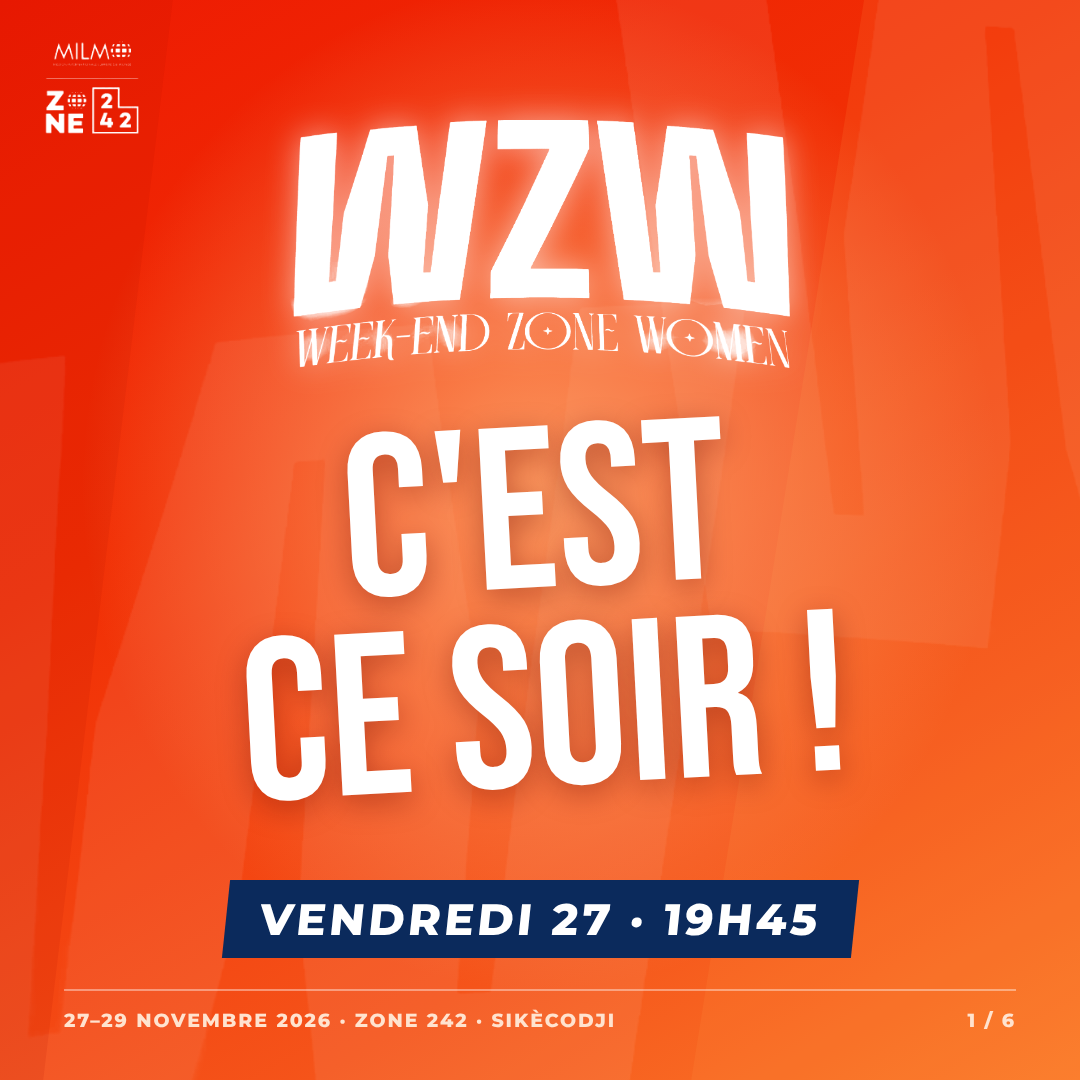
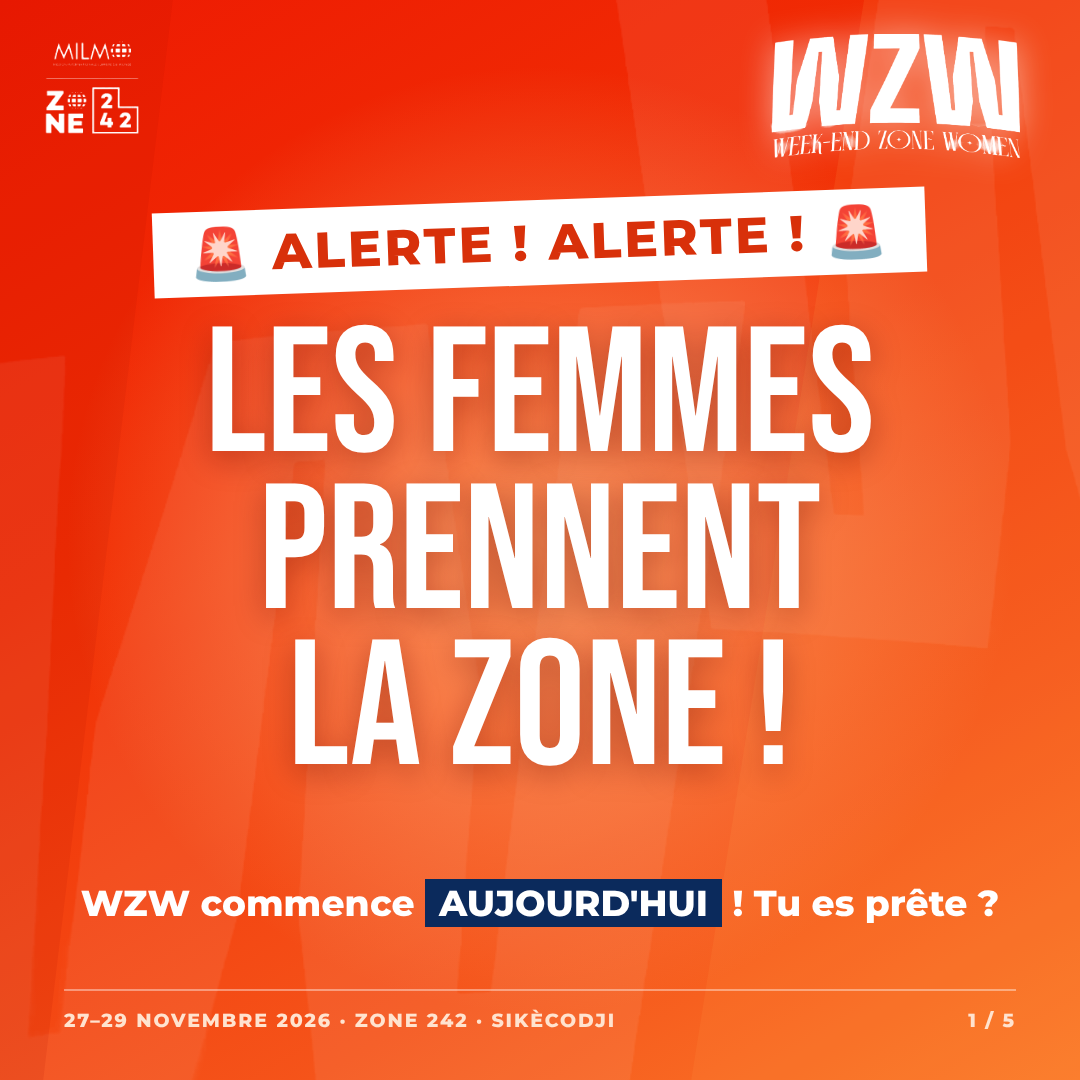
Carrousel « C'est ce soir ! » : textes de l'équipe (5 diapos)
Claude-Session: https://claude.ai/code/session_01MwjzxB6vNBUzfK55D3M67f

Changed region(s): [[0.1222, 0.0, 0.9778, 0.7639], [0.0611, 0.7944, 0.9472, 0.8861]]

diff --git a/zone242-com-session/livrables/scripts-sources/carrousel_aujourdhui.py b/zone242-com-session/livrables/scripts-sources/carrousel_aujourdhui.py
@@ -8,13 +8,13 @@ for src, n in [("teaser-wzw-reels/assets/montserrat-latin-600-normal.woff2", "m6
                ("un-mot-une-session-reels/assets/lockup.png", "lockup.png"), ("presentation-dr-hestia/assets/logos_alpha.png", "logos.png"), ("teaser-wzw-reels/assets/W1.png", "w1.png"), ("teaser-wzw-reels/assets/W2.png", "w2.png")]:
     shutil.copy(R / src, T / n)
 shutil.copy(HERE / "mary_net.png", T / "mary.png")
-N = 6
+N = 5
 CSS = """@font-face{font-family:B;src:url(bb.woff2)}@font-face{font-family:M;font-weight:600;src:url(m6.woff2)}@font-face{font-family:M;font-weight:800;src:url(m8.woff2)}
 *{margin:0;padding:0;box-sizing:border-box}body{width:1080px;height:1080px;position:relative;overflow:hidden;font-family:B;color:#fff;background:linear-gradient(150deg,#ee1a02 0%,#f12e04 36%,#f5541a 74%,#fb7a2a 100%)}
 .a{position:absolute}.lock{filter:drop-shadow(0 0 16px rgba(255,255,255,.55))}
-.k{font-family:M;font-weight:800;letter-spacing:.2em;color:#ffe3cf}.tx{font-family:M;font-weight:600;line-height:1.38}.tx b{font-weight:800}
-.tag{background:#0b2a5c;color:#fff;font-family:M;font-weight:800;letter-spacing:.08em;display:inline-block}
-.card{background:#fff;color:#10143a;border-radius:22px;box-shadow:0 14px 30px rgba(90,0,0,.3)}"""
+.k{font-family:M;font-weight:800;letter-spacing:.12em;color:#ffe3cf}.tx{font-family:M;font-weight:800;line-height:1.3}
+.tag{background:#0b2a5c;color:#fff;font-family:M;font-weight:800;letter-spacing:.06em;display:inline-block}
+.card{background:#fff;border-radius:22px;box-shadow:0 14px 30px rgba(90,0,0,.3)}"""
 def base(n, inner, cover=False):
     g = ('<img class="a" src="w1.png" style="left:-140px;top:300px;height:900px;opacity:.07;filter:brightness(2)"><img class="a" src="w2.png" style="left:600px;top:-120px;height:820px;opacity:.07;filter:brightness(2)">'
          '<div class="a" style="inset:0;background:#b80f00;opacity:.12;clip-path:polygon(0 0,16% 0,4% 100%,0 100%)"></div><div class="a" style="inset:0;background:#ff9a4a;opacity:.14;clip-path:polygon(80% 0,100% 0,100% 100%,64% 100%)"></div>')
@@ -23,37 +23,31 @@ def base(n, inner, cover=False):
     foot = f'<div class="a" style="left:64px;right:64px;bottom:48px;border-top:2px solid rgba(255,255,255,.4);padding-top:18px;display:flex;justify-content:space-between;font-family:M;font-weight:800;font-size:19px;letter-spacing:.1em;color:#ffe3cf"><span>27–29 NOVEMBRE 2026 · ZONE 242 · SIKÈCODJI</span><span>{n} / {N}</span></div>'
     return g + top + inner + foot
 S = []
-S.append(base(1, '''<div class="a" style="inset:0;background:radial-gradient(ellipse at 50% 45%,rgba(255,180,120,.75),rgba(255,180,120,0) 60%)"></div>
-<img class="a" src="logos.png" style="left:40px;top:36px;width:104px">
-<img class="a lock" src="lockup.png" style="left:290px;top:120px;width:500px">
-<div class="a" style="left:0;width:1080px;top:420px;text-align:center;font-size:230px;line-height:.86;text-shadow:0 8px 30px rgba(110,10,0,.4);transform:rotate(-3deg)">C'EST<br>CE SOIR !</div>
-<div class="a" style="left:0;width:1080px;top:880px;text-align:center"><span class="tag" style="font-size:44px;padding:12px 34px;transform:skewX(-6deg)">VENDREDI 27 · 19H45</span></div>''', True))
-S.append(base(2, '''<div class="a k" style="left:64px;top:210px;font-size:24px">TU FAIS QUOI CE SOIR ?</div>
-<div class="a" style="left:64px;top:252px;font-size:124px;line-height:.9;width:560px;text-shadow:0 8px 30px rgba(110,10,0,.35)">ON OUVRE LE<br>WEEK-END<br>ZONE<br>WOMEN</div>
-<div class="a" style="left:560px;top:150px;width:520px;height:900px;overflow:hidden;-webkit-mask-image:linear-gradient(180deg,#000 80%,transparent 100%);mask-image:linear-gradient(180deg,#000 80%,transparent 100%)"><img src="mary.png" style="position:absolute;left:-20px;top:20px;height:880px;filter:drop-shadow(0 18px 34px rgba(70,0,0,.4))"></div>
-<div class="a" style="left:64px;top:760px"><span class="tag" style="font-size:22px;padding:7px 18px">PROPHÉTESSE</span></div><div class="a" style="left:64px;top:798px"><span class="tag" style="font-size:30px;padding:9px 24px">MARY FAVOUR TONGSI</span></div>
-<div class="a k" style="left:64px;top:862px;font-size:19px;letter-spacing:.22em">INVITÉE D'HONNEUR</div>'''))
-items = ["Accueil par l'équipe des femmes", "Louange et adoration", "Le message de la Prophétesse Mary", "Un temps de prière et de ministère"]
-h = '<div class="a k" style="left:64px;top:200px;font-size:24px">AU PROGRAMME CE SOIR</div><div class="a" style="left:64px;top:240px;font-size:104px;line-height:.9">4 BONNES RAISONS<br>DE VENIR</div>'
-for i, t in enumerate(items):
-    y = 500 + i * 118
-    h += f'<div class="a card" style="left:64px;top:{y}px;width:952px;height:98px"></div><div class="a" style="left:64px;top:{y}px;width:98px;height:98px;background:#0260a6;border-radius:22px 0 0 22px;display:flex;align-items:center;justify-content:center;font-size:64px;padding-top:6px">{i + 1}</div>'
-    h += f'<div class="a tx" style="left:190px;top:{y + 28}px;width:800px;font-size:34px;font-weight:800;color:#10143a;line-height:1.1">{t}</div>'
-S.append(base(3, h))
-S.append(base(4, '''<div class="a k" style="left:64px;top:200px;font-size:24px">ET DEMAIN ?</div>
-<div class="a" style="left:64px;top:240px;font-size:150px;line-height:.88;text-shadow:0 8px 30px rgba(110,10,0,.35)">SAMEDI,<br>ON CONTINUE !</div>
-<div class="a" style="left:64px;top:560px;width:952px;height:300px;background:#0260a6;clip-path:polygon(0 0,100% 4%,100% 100%,0 96%)"></div>
-<div class="a" style="left:100px;top:584px;font-size:64px;line-height:1;letter-spacing:.03em">WOMEN'S EXPERIENCE DAY · 9H00</div>
-<div class="a tx" style="left:100px;top:672px;width:880px;font-size:30px;color:#fff">Relaxation · 4 panels · « Belle et en bonne santé » · Zone Détente (salon de thé, massages, coin photo) · grande table ronde</div>'''))
-S.append(base(5, '''<div class="a k" style="left:64px;top:200px;font-size:24px">ET DIMANCHE ?</div>
-<div class="a" style="left:64px;top:240px;font-size:150px;line-height:.88;text-shadow:0 8px 30px rgba(110,10,0,.35)">ON FINIT<br>EN BEAUTÉ</div>
-<div class="a card" style="left:64px;top:560px;width:460px;height:250px"></div><div class="a" style="left:100px;top:584px;font-size:100px;line-height:1;color:#ee1a02">8H45</div><div class="a tx" style="left:100px;top:700px;width:400px;font-size:30px;font-weight:800;color:#10143a;line-height:1.15">Culte de clôture avec la Prophétesse Mary</div>
-<div class="a card" style="left:556px;top:560px;width:460px;height:250px"></div><div class="a" style="left:592px;top:584px;font-size:100px;line-height:1;color:#ee1a02">11H30</div><div class="a tx" style="left:592px;top:700px;width:400px;font-size:30px;font-weight:800;color:#10143a;line-height:1.15">L'Agapè des Femmes : brunch, témoignages, photo de groupe</div>'''))
-S.append(base(6, '''<div class="a" style="inset:0;background:radial-gradient(ellipse at 50% 40%,rgba(255,180,120,.6),rgba(255,180,120,0) 60%)"></div>
-<div class="a" style="left:64px;top:210px;font-size:176px;line-height:.88;text-shadow:0 8px 30px rgba(110,10,0,.35)">VIENS<br>AVEC UNE<br>AMIE !</div>
-<div class="a" style="left:64px;top:700px;display:flex;gap:14px"><span class="tag" style="font-size:26px;padding:11px 22px;white-space:nowrap">GRATUIT</span><span class="tag" style="font-size:26px;padding:11px 22px;white-space:nowrap">150 PLACES</span><span class="tag" style="font-size:26px;padding:11px 22px;white-space:nowrap">INSCRIPTION OBLIGATOIRE</span></div>
-<div class="a" style="left:64px;top:800px;background:#fff;color:#d8300a;font-size:64px;line-height:1;padding:14px 34px 6px;border-radius:14px;box-shadow:0 14px 30px rgba(90,0,0,.3)">ZONE 242 · SIKÈCODJI · 19H45</div>
-<div class="a tx" style="left:64px;top:910px;width:950px;font-size:24px;color:#ffe3cf">Rue de Golf FM, Cotonou · inscription : lien en bio · contact.zone242@gmail.com · 01 41 62 77 77</div>'''))
+S.append(base(1, '''<div class="a" style="inset:0;background:radial-gradient(ellipse at 50% 50%,rgba(255,180,120,.7),rgba(255,180,120,0) 62%)"></div>
+<img class="a" src="logos.png" style="left:40px;top:36px;width:104px"><img class="a lock" src="lockup.png" style="left:770px;top:34px;width:250px">
+<div class="a" style="left:0;width:1080px;top:200px;text-align:center"><span class="tag" style="font-size:50px;padding:12px 36px;background:#fff;color:#d8300a;transform:rotate(-2deg)">🚨 ALERTE ! ALERTE ! 🚨</span></div>
+<div class="a" style="left:0;width:1080px;top:320px;text-align:center;font-size:178px;line-height:.88;text-shadow:0 8px 30px rgba(110,10,0,.4)">LES FEMMES<br>PRENNENT<br>LA ZONE !</div>
+<div class="a tx" style="left:0;width:1080px;top:880px;text-align:center;font-size:36px">WZW commence <span style="color:#fff;background:#0b2a5c;padding:2px 14px">AUJOURD'HUI</span> ! Tu es prête ?</div>''', True))
+S.append(base(2, '''<div class="a" style="left:64px;top:230px;font-size:150px;line-height:.9;width:950px;text-shadow:0 8px 30px rgba(110,10,0,.35)">TU AS PRÉVU DE RESTER À LA MAISON CE SOIR ?</div>
+<div class="a" style="left:64px;top:660px"><span class="tag" style="font-size:96px;padding:6px 36px 0;background:#fff;color:#d8300a;font-family:B;font-weight:400;letter-spacing:.02em;transform:rotate(-2deg)">MAUVAIS PROGRAMME !</span></div>
+<div class="a tx" style="left:64px;top:830px;width:900px;font-size:40px">On a un rendez-vous à ne surtout pas manquer !</div>'''))
+S.append(base(3, '''<div class="a" style="left:520px;top:130px;width:560px;height:900px;overflow:hidden;-webkit-mask-image:linear-gradient(180deg,#000 80%,transparent 100%);mask-image:linear-gradient(180deg,#000 80%,transparent 100%)"><img src="mary.png" style="position:absolute;left:-60px;top:30px;height:900px;filter:drop-shadow(0 18px 34px rgba(70,0,0,.4))"></div>
+<div class="a" style="left:64px;top:220px;font-size:112px;line-height:.9;width:560px;text-shadow:0 8px 30px rgba(110,10,0,.35)">UNE SOIRÉE DE LOUANGE, DE PRIÈRE ET DE PUISSANCE !</div>
+<div class="a" style="left:64px;top:690px"><span class="tag" style="font-size:22px;padding:7px 18px">PROPHÉTESSE</span></div><div class="a" style="left:64px;top:728px"><span class="tag" style="font-size:30px;padding:9px 24px">MARY FAVOUR TONGSI</span></div>
+<div class="a tx" style="left:64px;top:820px;width:560px;font-size:44px;color:#fff;white-space:nowrap">Prépare ton cœur ! ❤</div>'''))
+rows = [("RESTAURÉE.", "#ee1a02"), ("OINTE.", "#ee1a02"), ("ENVOYÉE.", "#ee1a02")]
+h = '<div class="a" style="left:64px;top:200px;font-size:88px;line-height:.95;width:950px;text-shadow:0 6px 24px rgba(110,10,0,.35)">ET SI CE WEEK-END MARQUAIT UN NOUVEAU DÉPART POUR TOI ?</div>'
+for i, (w, c) in enumerate(rows):
+    y = 470 + i * 150
+    h += f'<div class="a card" style="left:64px;top:{y}px;width:952px;height:130px"></div><div class="a" style="left:64px;top:{y}px;width:14px;height:130px;background:#0260a6;border-radius:22px 0 0 22px"></div><div class="a" style="left:110px;top:{y + 14}px;font-size:108px;line-height:1;color:{c};letter-spacing:.03em">{w}</div>'
+h += '<div class="a tx" style="left:64px;top:920px;width:950px;font-size:34px;color:#fff">Dieu a encore de belles choses en réserve pour toi !</div>'
+S.append(base(4, h))
+S.append(base(5, '''<div class="a" style="inset:0;background:radial-gradient(ellipse at 50% 40%,rgba(255,180,120,.6),rgba(255,180,120,0) 60%)"></div>
+<div class="a" style="left:64px;top:170px;font-size:170px;line-height:.88;text-shadow:0 8px 30px rgba(110,10,0,.35)">CE SOIR,<br>ON SE<br>RETROUVE !</div>
+<div class="a" style="left:64px;top:640px"><span class="tag" style="font-size:52px;padding:10px 30px;font-family:B;font-weight:400;letter-spacing:.03em">SOIRÉE D'OUVERTURE WZW · 19H45</span></div>
+<div class="a tx" style="left:64px;top:735px;font-size:36px">📍 Zone 242, Sikècodji, Cotonou.</div>
+<div class="a tx" style="left:64px;top:800px;font-size:36px">Viens avec une amie !</div>
+<div class="a" style="left:64px;top:870px;background:#fff;color:#d8300a;font-size:48px;line-height:1;padding:12px 28px 4px;border-radius:14px;box-shadow:0 14px 30px rgba(90,0,0,.3)">UNE FEMME INVITÉE, UNE FEMME DE PLUS DANS LA ZONE !</div>'''))
 with sync_playwright() as pw:
     b = pw.chromium.launch(executable_path="/opt/pw-browsers/chromium", args=["--no-sandbox"])
     for i, body in enumerate(S, 1):
